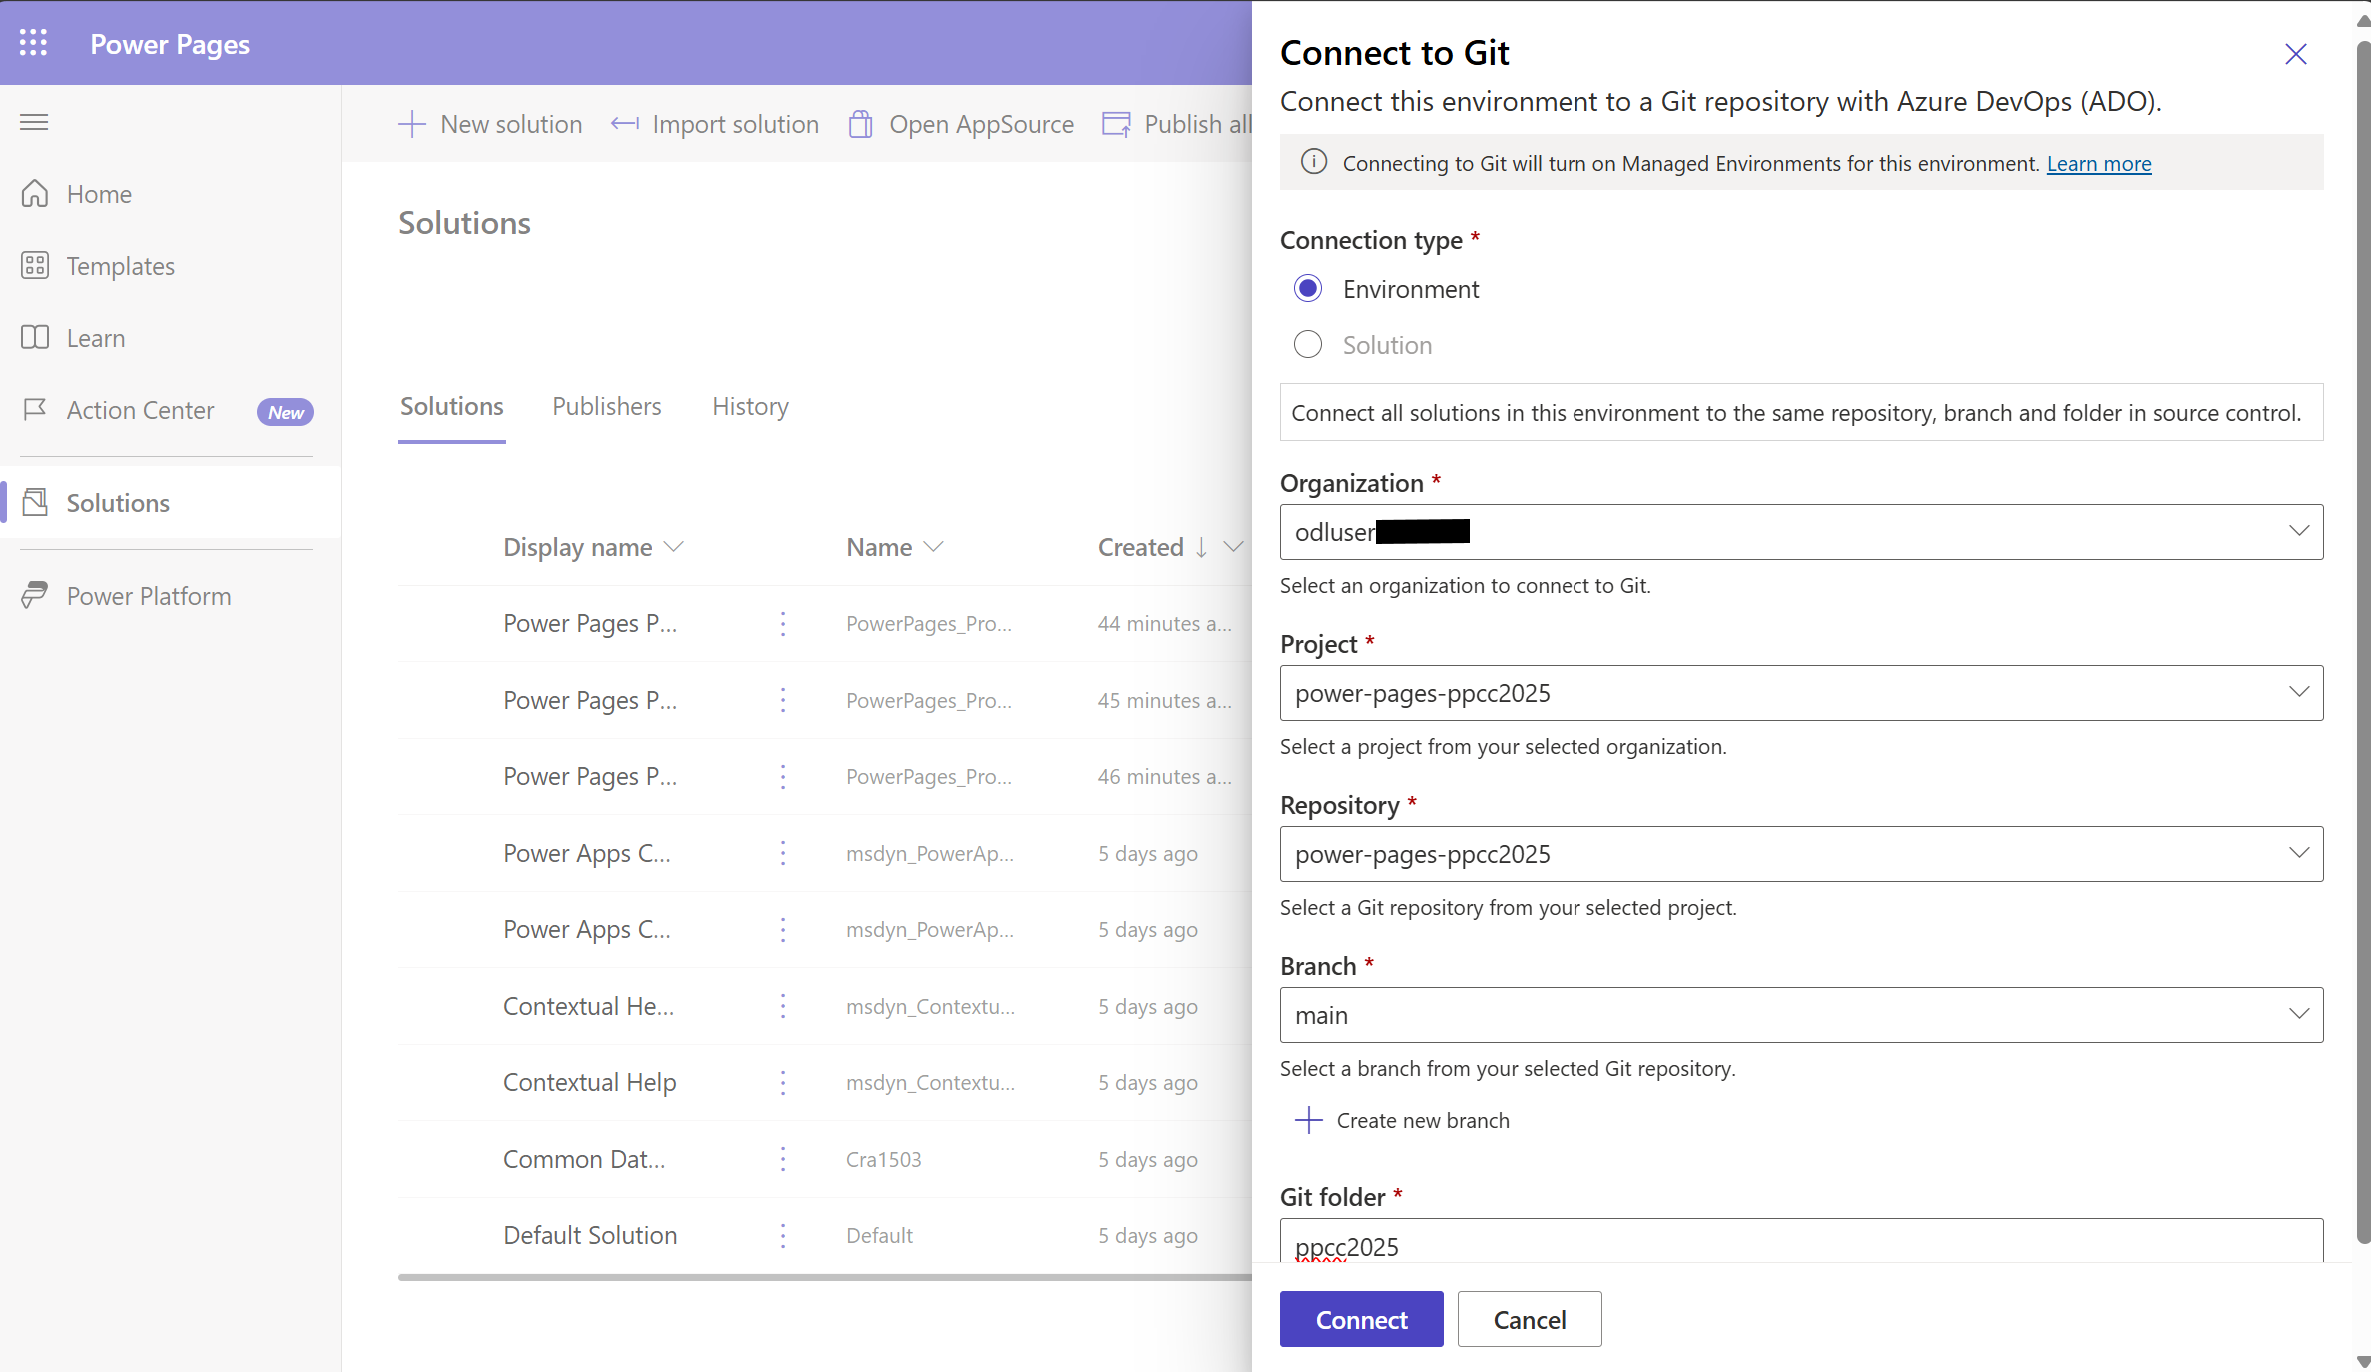
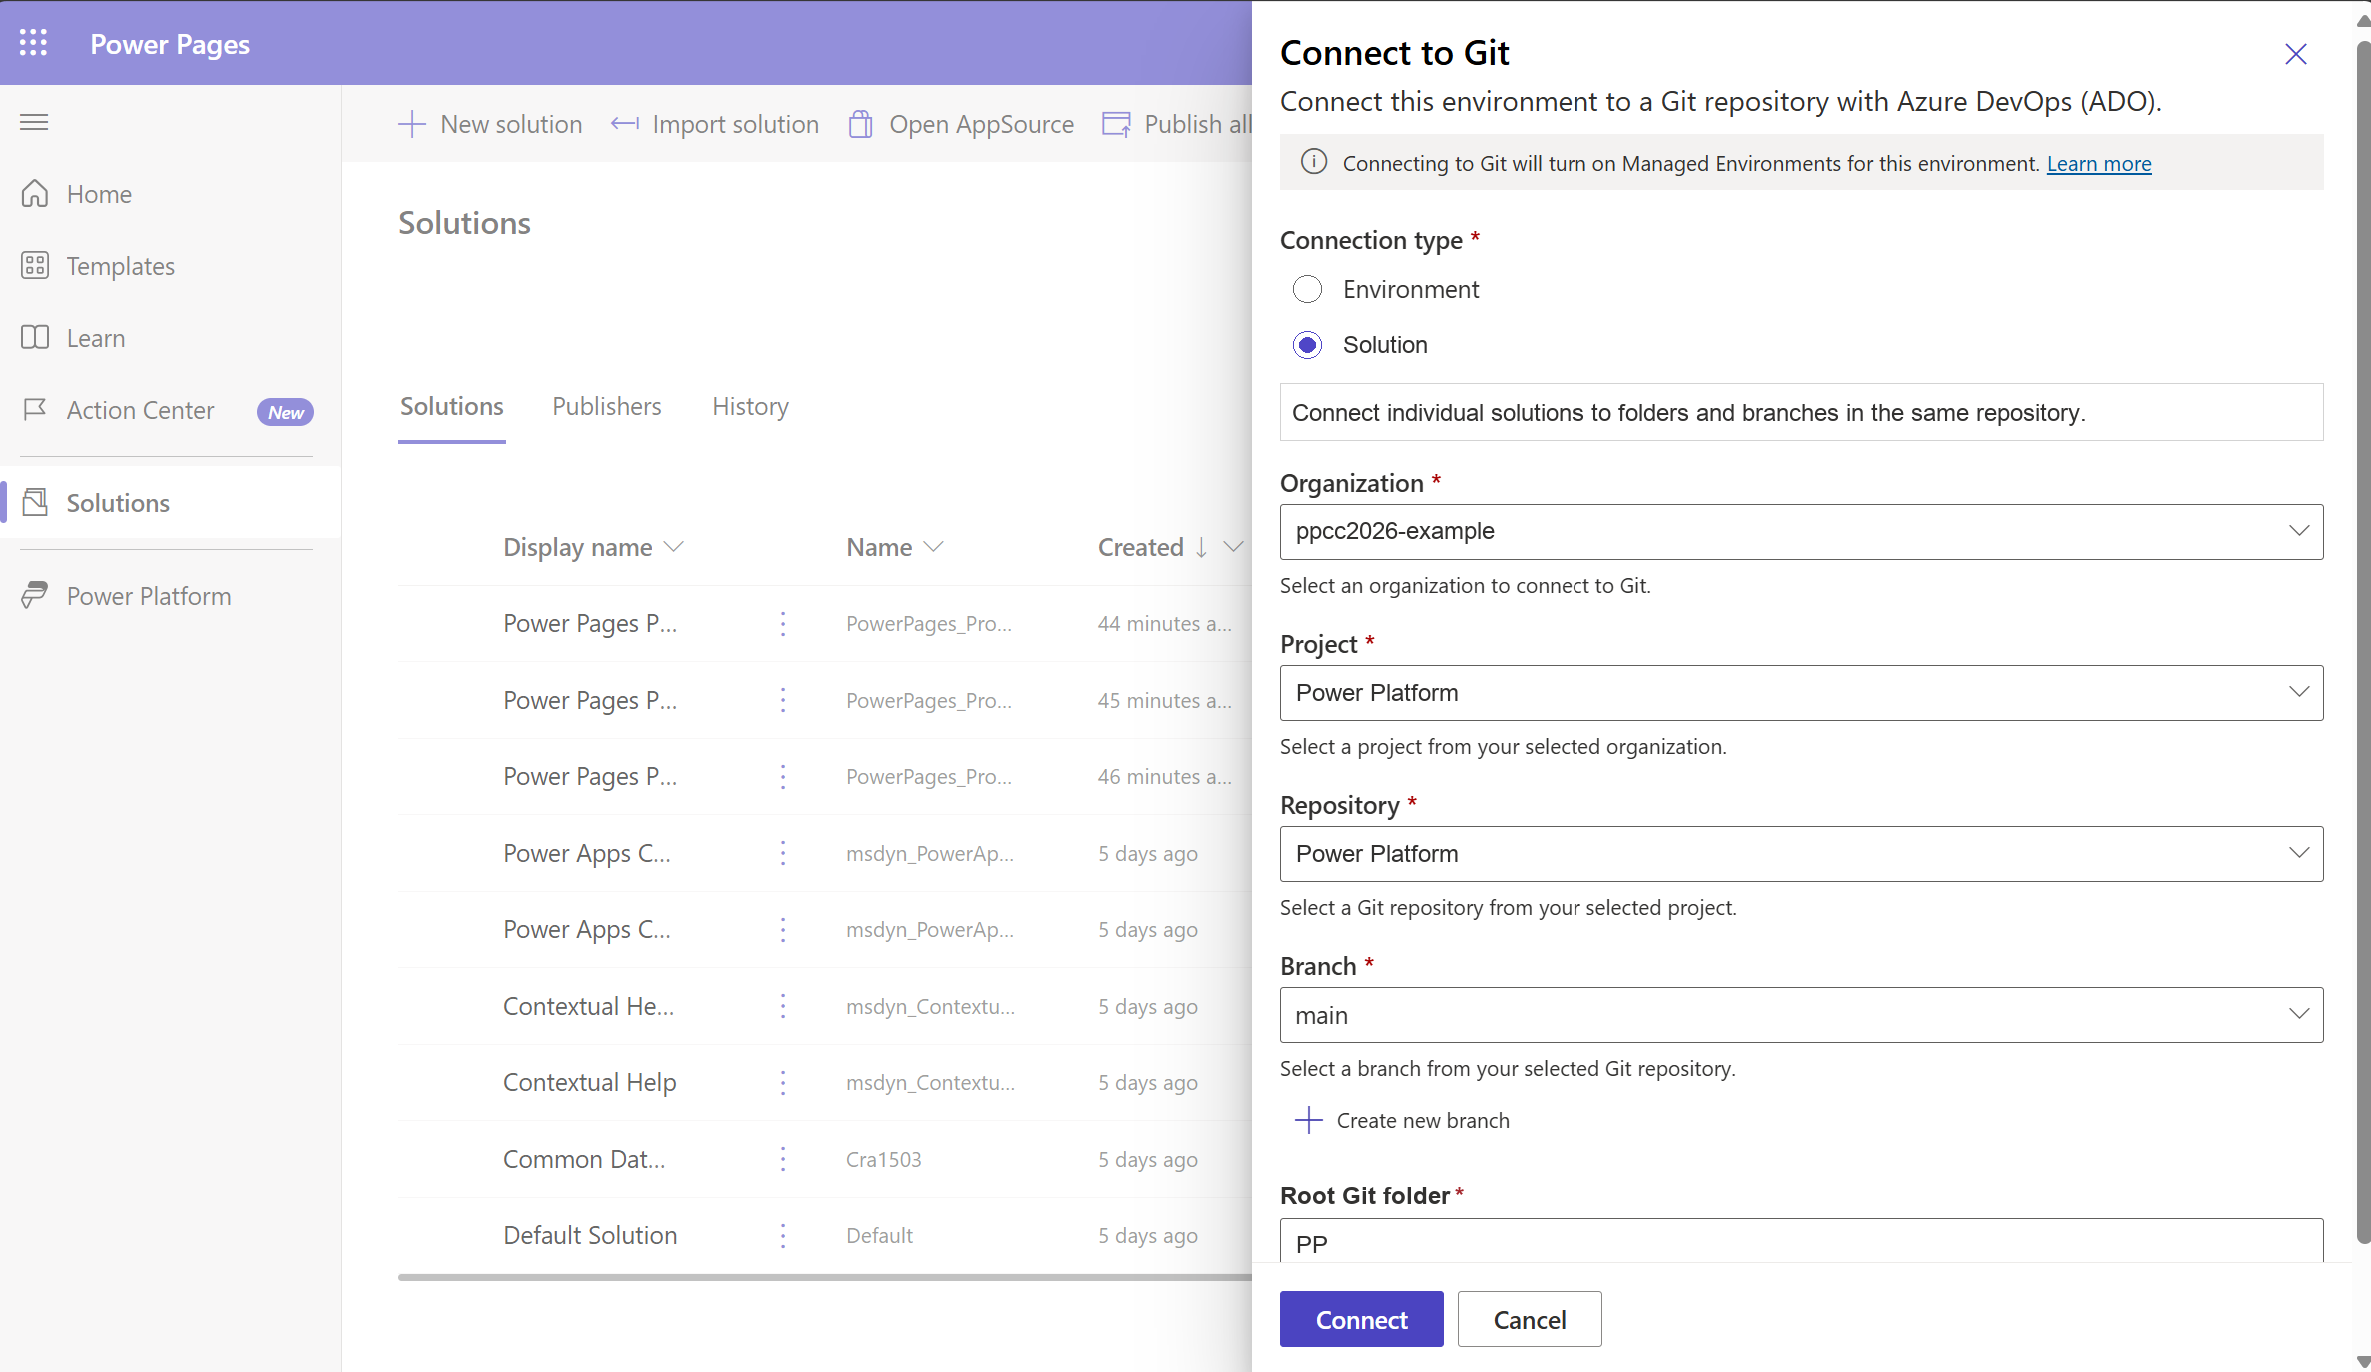
Fix Lab 4 Git connection guidance
- Remove the outdated Lab 2 Git integration dependency.\n- Explain initial setup, solution binding, and managed environments.\n- Align the connection image with the instructions and 2026 examples.

Copilot-Session: e1421c77-e386-44fa-b9da-3464c14efa46

diff --git a/docs/labs/lab4/lab/README.md b/docs/labs/lab4/lab/README.md
@@ -26,7 +26,9 @@
 1. Complete Labs 1 through 3.
 1. Confirm that the environments are named **Dev**, **Hotfix**, **UAT**, and **Production**, as specified in Lab 1.
 1. Confirm that the Azure DevOps Power Platform project repository from Lab 1 is initialized and that you can access it.
-1. Confirm that **Production** is a Managed Environment. Refer to the Managed Environments steps in Lab 3 if it is not enabled.
+1. Confirm that **Dev** and **Production** are Managed Environments.
+   Git integration requires **Dev** to be managed, and the deployment target must also be managed.
+   Refer to the Managed Environments steps in Lab 3 and the [Git integration prerequisites](https://learn.microsoft.com/power-platform/alm/git-integration/connecting-to-azure-devops#prerequisites).
 1. Install VS Code Desktop from this [download link](https://code.visualstudio.com/download).
 1. Install Git from this [download link](https://git-scm.com/install/windows).
 1. Use environments with Early Release Cycle features enabled. These features are enabled by default in the workshop environments.
@@ -100,26 +102,38 @@ You will deploy the solution to **Production**, edit the site through the reposi
 
 ### 🔗 Connect the solution to the repository
 
-Lab 2 connected only the **Contoso Real Estate** solution to Git.
-Git integration is solution-scoped, so connect the new **PPCCALMDev** solution to the existing Lab 1 repository before committing it.
+Lab 1 created and initialized the **Power Platform** Azure DevOps project and repository.
+Lab 2 uses **Zava Quality Operations** and does not configure Power Platform Git integration.
+In this lab, configure solution-scoped Git integration and connect **PPCCALMDev** to the Lab 1 repository before committing it.
+Use `PP` as the root Git folder for this lab; it is a folder setting introduced here, not a prerequisite from Lab 2.
+If solution-scoped Git integration is already configured for the Lab 1 repository, keep the existing connection and go directly to the **PPCCALMDev** solution binding below.
 
-1. In **Dev**, open the **PPCCALMDev** solution and select **Connect to Git**.
+1. In **Dev**, go to **Solutions** and select **Connect to Git**.
 
     ![Connect to Git](images/connect-to-git.png)
 
-1. Select the same Azure DevOps organization, project, and repository that you created in Lab 1.
-Use these settings:
+1. Configure the connection using these settings:
 
     - **Connection type**: Solution
+    - **Organization**: Your Azure DevOps organization from Lab 1
+    - **Project**: Power Platform
+    - **Repository**: Power Platform
+    - **Branch**: `main`
     - **Root Git folder**: `PP`
 
-1. On the repository connection page, use these settings:
+    ![Example solution-scoped Git connection using PP as the root folder](images/connect-to-git-repo.png)
+
+    _The image is an edited example using the organization name `ppcc2026-example`.
+    Select your own organization and the project and repository created in Lab 1._
+
+1. Select **Connect** to save the initial Git connection.
+
+1. In **Solutions**, select the three dots next to **PPCCALMDev**, then select **Connect to Git**.
+   On the solution connection page, use these settings:
 
     - **Solution**: PPCCALMDev
-    - **Branch**: main
+    - **Branch**: `main`
     - **Git folder**: `PP/PPCCALMDev`
-
-    ![Connect the solution to the repository](images/connect-to-git-repo.png)
 
 1. Select **Connect**.
 Wait for Git integration to finish processing the solution components before continuing.
